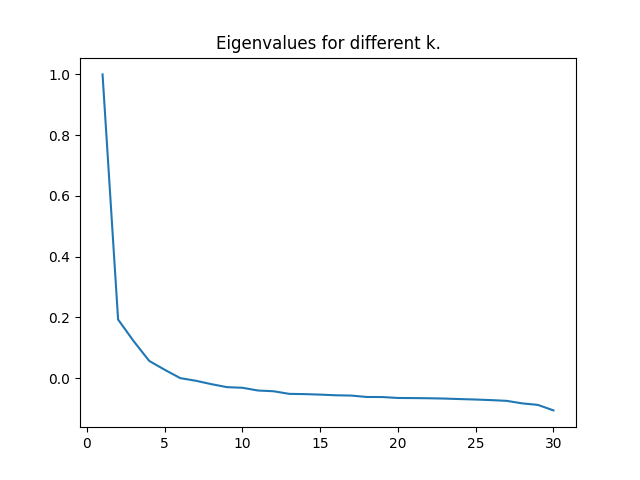
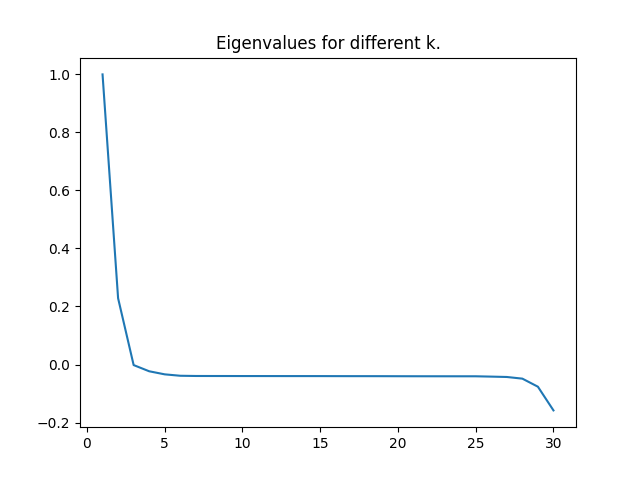
normalization of data and calculation of gaussian similarity kernel

diff --git a/do_graph_clustering.py b/do_graph_clustering.py
@@ -1,43 +1,23 @@
 import networkx as nx
 import pandas as pd 
-import numpy as np
-from sklearn.cluster import SpectralClustering
-from scipy.stats import pearsonr
 import matplotlib.pyplot as plt
+from sklearn.cluster import SpectralClustering
 from predict_k import predict_k
+from gaussian_similarity import gaussian_similarity_kernel
 import warnings
 warnings.filterwarnings("ignore")
 
-def do_graph_clustering(countries:np.ndarray,covid_stats:pd.DataFrame,graph_title:str):
+def do_graph_clustering(covid_stats:pd.DataFrame,graph_title:str):
+    countries =  covid_stats.to_numpy()
     graph = nx.Graph()
     g_structure = []
     for i in range(len(countries)):
-        country_a_stats = covid_stats[covid_stats["geoId"] == countries[i]]
         for j in range(i,len(countries)):
-            country_b_stats = covid_stats[covid_stats["geoId"] == countries[j]]
-            if countries[i] == countries[j]:
+            if countries[i][0] == countries[j][0]:
                 continue
             
-            samples = len(country_a_stats["geoId"])
-            if len(country_a_stats["geoId"]) > len(country_b_stats["geoId"]):
-                samples = len(country_b_stats["geoId"])
-            elif len(country_a_stats["geoId"]) < len(country_b_stats["geoId"]): 
-                samples = len(country_a_stats["geoId"])
-                
-            country_b_stats.fillna(method="ffill", inplace=True)
-            cases_country_a = country_a_stats["cases"][:samples]
-            deaths_country_a = country_a_stats["deaths"][:samples]
-            
-            cases_country_b = country_b_stats["cases"][:samples]
-            deaths_country_b = country_b_stats["deaths"][:samples]
-            
-            cases_corr,p_val_1 = pearsonr(cases_country_a,cases_country_b)
-            deaths_corr,p_val_2 = pearsonr(deaths_country_a,deaths_country_b)
-            
-            # print(f"({cases_corr},{deaths_corr})")
-            weight = (cases_corr + deaths_corr) / 2
-            
-            a_edge_b = (countries[i],countries[j],{"weight": weight})
+            weight = gaussian_similarity_kernel(countries[i][1:],countries[j][1:],1)
+            a_edge_b = (countries[i][0],countries[j][0],{"weight": weight})
             g_structure.append(a_edge_b)
         
     graph.add_edges_from(g_structure)

diff --git a/main.py b/main.py
@@ -5,12 +5,17 @@ countries = pd.read_csv("./data/eu_countries.csv")["geoId"].to_numpy() #EU count
 
 #Cluster of countries according to cases and deaths before vaccinations
 
-covid_stats_bef_vacc = pd.read_csv("./data/covid_19(2020).csv")[["cases","deaths","geoId"]]
+covid_stats_bef_vacc = pd.read_csv("./data/covid_19(2020).csv")
 covid_stats_bef_vacc.fillna(method="ffill",inplace=True)
-do_graph_clustering(countries,covid_stats_bef_vacc,"Cluster of countries before vaccination")
+norm_df_bef_vacc = (covid_stats_bef_vacc[['cases','deaths']]-covid_stats_bef_vacc[['cases','deaths']].mean())/(covid_stats_bef_vacc[['cases','deaths']].max()-covid_stats_bef_vacc[['cases','deaths']].min())
+covid_stats_bef_vacc.loc[:,['cases','deaths']] = norm_df_bef_vacc[['cases','deaths']]
+do_graph_clustering(covid_stats_bef_vacc,"Cluster of countries before vaccination")
 
 #Cluster of countries according to cases and deaths after vaccinations
 
-covid_stats_after_vacc = pd.read_csv("./data/covid_19(2021-2022).csv")[["cases","deaths","geoId"]]
+covid_stats_after_vacc = pd.read_csv("./data/covid_19(2021-2022).csv")
 covid_stats_after_vacc.fillna(method="ffill", inplace=True)
-do_graph_clustering(countries,covid_stats_after_vacc,"Cluster of countries after vaccination")
+cols_after_vacc = ["FirstDose","SecondDose","DoseAdditional1","DoseAdditional2","cases","deaths"]
+norm_df_bef_vacc = (covid_stats_after_vacc[cols_after_vacc]-covid_stats_after_vacc[cols_after_vacc].mean())/(covid_stats_after_vacc[cols_after_vacc].max()-covid_stats_after_vacc[cols_after_vacc].min())
+covid_stats_after_vacc.loc[:,cols_after_vacc] = norm_df_bef_vacc[cols_after_vacc]
+do_graph_clustering(covid_stats_after_vacc,"Cluster of countries after vaccination")

diff --git a/gaussian_similarity.py b/gaussian_similarity.py
@@ -1,0 +1,8 @@
+import numpy as np 
+from scipy.spatial.distance import euclidean
+
+def gaussian_similarity_kernel(country_a,country_b,sigma):
+    numerator = euclidean(country_a,country_b)**2
+    denominator = 2*(sigma**2)
+    return np.exp(-(numerator/denominator))
+
